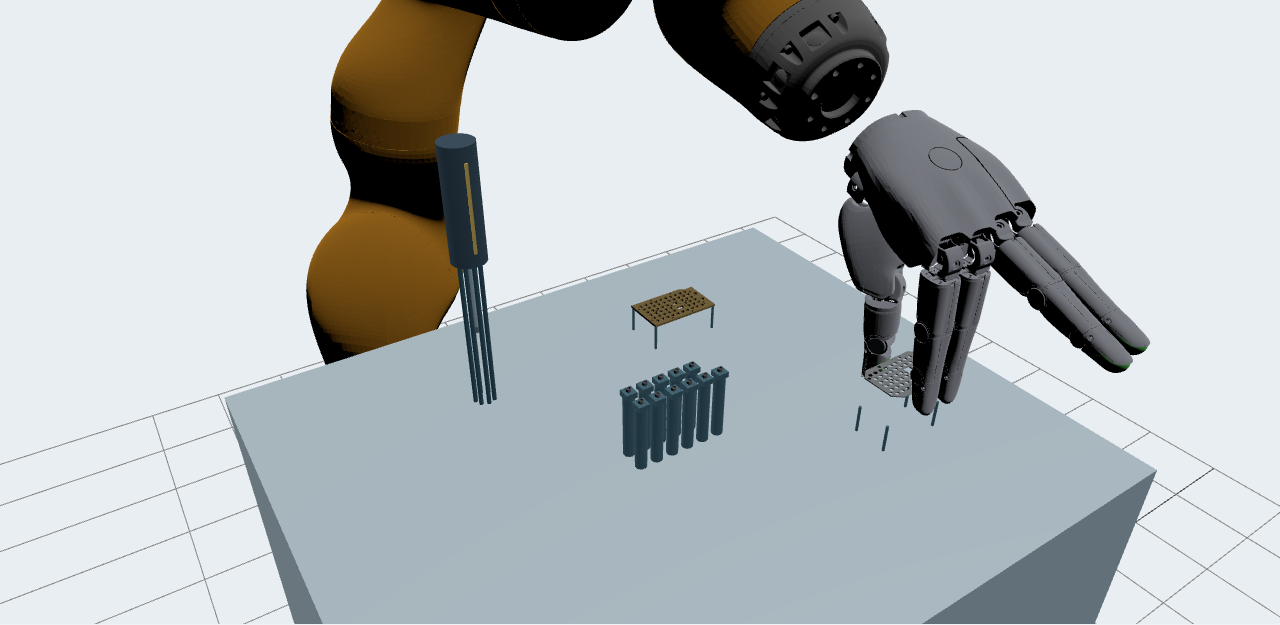
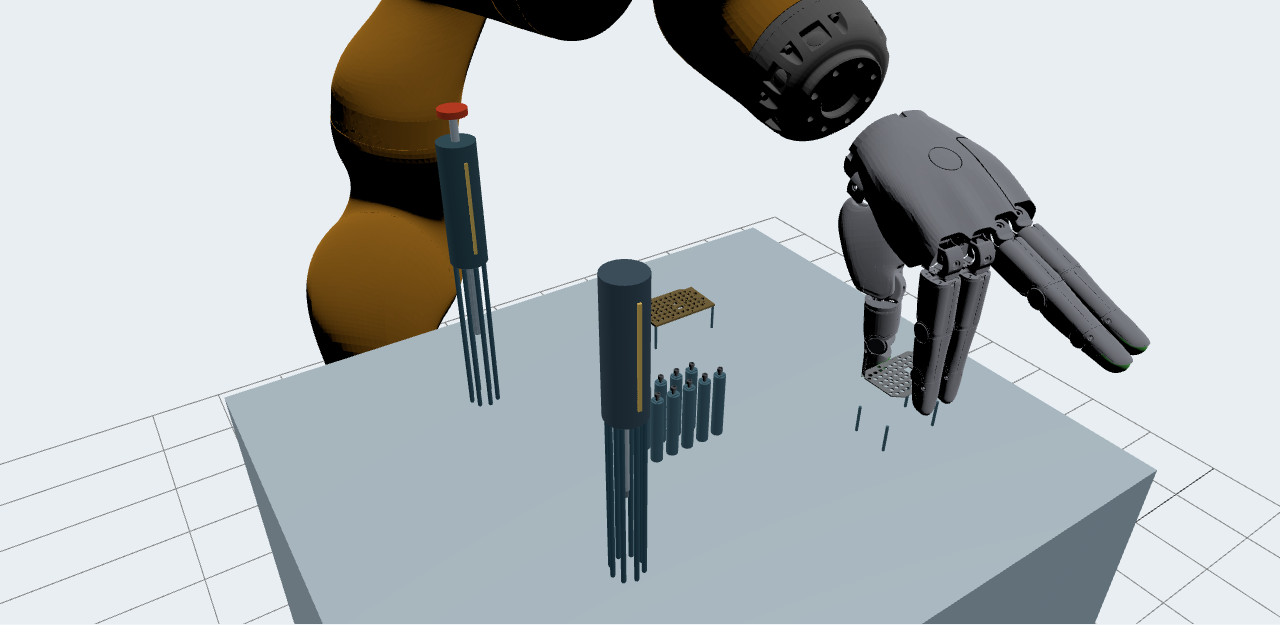
Keep the assembly replay layout consistent between recorded stages

Changed region(s): [[0.4688, 0.3952, 0.5625, 0.9424], [0.3438, 0.4256, 0.4062, 0.6384], [0.3438, 0.152, 0.375, 0.2432]]

diff --git a/demo/assembly/viewer.js b/demo/assembly/viewer.js
@@ -24,6 +24,8 @@ const loader=new GLTFLoader();
 const load=url=>new Promise((resolve,reject)=>loader.load(url,g=>resolve(g.scene),undefined,reject));
 let manifest,chapters,robot,parts,cover,base,current,activeChapter=-1,bindings=[];
 let t=0,last=0,playing=false,follow=null,viewScale=1;
+let inTransition=false,transitionCamera=null,robotOpacity=1;
+const robotMaterials=[];
 const grabberObjects=[handle,button,carriage,...claws];
 const nextPosition=new T.Vector3(),nextQuaternion=new T.Quaternion();
 function pose(obj,p,next=p,blend=0){
@@ -42,68 +44,124 @@ new ResizeObserver(()=>{
  camera.position.sub(controls.target).multiplyScalar(scale/viewScale).add(controls.target);viewScale=scale;
  camera.updateProjectionMatrix();controls.update();render();
 }).observe(view);
-controls.addEventListener('change',render);controls.addEventListener('start',()=>follow=null);
+controls.addEventListener('change',render);controls.addEventListener('start',()=>{follow=null;transitionCamera=null});
 function look(target,offset){controls.target.copy(target);camera.position.copy(target).add(new T.Vector3(...offset));fitPreset()}
 function whole(){follow=null;look(new T.Vector3(0,.2,.65),[1.2,-1.7,.7])}
 function assembly(){follow=null;look(new T.Vector3(.015,.055,.59),[-.285,-.435,.33])}
-function close(){follow=null;look((activeChapter===0||current?.tool==='driver'?driverHandle:handle).position,[.20,-.25,.12])}
+function close(){follow=null;look((current?.tool==='driver'?driverHandle:handle).position,[.20,-.25,.12])}
 function selectedScrew(){return Number($('screw').value)}
 function socket(){follow=null;const v=new T.Vector3(...chapters[1].layout.seats[selectedScrew()]);v.z+=.0022;look(v,[.012,-.025,.018])}
 function fixture(obj,x,y,z){obj.position.set(x,y,z);fixtures.add(obj)}
-function clearFixtures(){
- fixtures.traverse(o=>{if(o.isMesh){o.geometry.dispose();o.material.dispose()}});fixtures.clear();
+function bodyObject(label){
+ const n=label.split('/').at(-1);
+ if(label.includes('/Robot/'))return robot.getObjectByName(n);
+ if(label.includes('/Driver/'))return n==='Handle'?driverHandle:n==='Bit'?bit:null;
+ if(n==='Cover')return cover;
+ if(n==='Screw')return screws[Number(label.match(/Screw(\d+)/)[1])];
+ return n==='Handle'?handle:n==='Button'?button:n==='Carriage'?carriage:n.startsWith('Claw')?claws[Number(n.slice(4))]:null;
 }
-function setChapter(index){
- activeChapter=index;const d=chapters[index],layout=d.layout,b=layout.base||layout.assembly_base;
- for(const obj of grabberObjects)obj.visible=index===1;
- clearFixtures();
- // Restore original CAD transforms before applying this chapter's placement.
+function buildSharedSet(){
+ // Presentation context only: use the mechanical assembly's parked tools,
+ // rack and stands in both clips. The unused legacy driver is never drawn.
+ // Keep the empty cover supports after pickup. No recorded pose is rewritten.
+ const layout=chapters[1].layout,b=layout.assembly_base;
  base.position.copy(parts.getObjectByName('base').position).add(new T.Vector3(...b));
  base.quaternion.copy(parts.getObjectByName('base').quaternion);
- cover.position.copy(parts.getObjectByName('cover').position).add(new T.Vector3(...b));
- cover.quaternion.copy(parts.getObjectByName('cover').quaternion);
  for(const xy of [[-.0264225,-.015437],[-.0264225,.015437],[.0264225,-.015437],[.0264225,.013037]])fixture(cyl(.001,.02,0x496b78),b[0]+xy[0],b[1]+xy[1],b[2]-.01);
- if(index===0){
-  const c=layout.cover_source;
-  for(const xy of [[-.0231871744,-.012037],[-.0231871744,.012037],[.0231871744,-.012037],[.0231871744,.012037]])fixture(cyl(.001,.02,0x496b78),c[0]+xy[0],c[1]+xy[1],c[2]-.0101);
- }
- for(const p of [layout.tool_position,layout.driver_position].filter(Boolean)){
+ const c=chapters[0].layout.cover_source;
+ for(const xy of [[-.0231871744,-.012037],[-.0231871744,.012037],[.0231871744,-.012037],[.0231871744,.012037]])fixture(cyl(.001,.02,0x496b78),c[0]+xy[0],c[1]+xy[1],c[2]-.0101);
+ for(const p of [layout.tool_position,layout.driver_position]){
   const z=p[2]-.04;
   for(let i=0;i<8;i++){
-   const a=i*Math.PI/4,r=layout.tool_support_radius_m??.007;
+   const a=i*Math.PI/4,r=layout.tool_support_radius_m;
    fixture((layout.tool_support_rounded?roundedPost:cyl)(.0015,z-.53,0x315563),p[0]+r*Math.cos(a),p[1]+r*Math.sin(a),(.53+z)/2);
   }
  }
  for(const c of layout.sources){
-  if(index===0){
-   fixture(cyl(.004,c[2]-.004-.53,0x496b78),c[0],c[1],(.53+c[2]-.004)/2);
-   for(const [xy,wh] of [[[-.002625,0],[.00275,.008]],[[.002625,0],[.00275,.008]],[[0,-.002625],[.0025,.00275]],[[0,.002625],[.0025,.00275]]])fixture(new T.Mesh(new T.BoxGeometry(...wh,.004),mat(0x496b78)),c[0]+xy[0],c[1]+xy[1],c[2]-.002);
-  }else{
-   const bottom=c[2]-.003175,top=c[2]-.0025,inner=.0013,outer=.0025;
-   fixture(cyl(.004,bottom-.53,0x496b78),c[0],c[1],(.53+bottom)/2);
-   for(const [xy,wh] of [[[ -(inner+outer)/2,0],[outer-inner,2*outer]],[[ (inner+outer)/2,0],[outer-inner,2*outer]],[[0,-(inner+outer)/2],[2*inner,outer-inner]],[[0,(inner+outer)/2],[2*inner,outer-inner]]])fixture(new T.Mesh(new T.BoxGeometry(...wh,top-bottom),mat(0x496b78)),c[0]+xy[0],c[1]+xy[1],(bottom+top)/2);
-  }
+  const bottom=c[2]-.003175,top=c[2]-.0025,inner=.0013,outer=.0025;
+  fixture(cyl(.004,bottom-.53,0x496b78),c[0],c[1],(.53+bottom)/2);
+  for(const [xy,wh] of [[[ -(inner+outer)/2,0],[outer-inner,2*outer]],[[ (inner+outer)/2,0],[outer-inner,2*outer]],[[0,-(inner+outer)/2],[2*inner,outer-inner]],[[0,(inner+outer)/2],[2*inner,outer-inner]]])fixture(new T.Mesh(new T.BoxGeometry(...wh,top-bottom),mat(0x496b78)),c[0]+xy[0],c[1]+xy[1],(bottom+top)/2);
+ }
+ const materials=new Map();
+ robot.traverse(obj=>{
+  if(!obj.isMesh)return;
+  const clone=original=>{
+   if(!materials.has(original)){
+    const material=original.clone();materials.set(original,material);
+    robotMaterials.push({material,opacity:original.opacity,transparent:original.transparent,depthWrite:original.depthWrite});
+   }
+   return materials.get(original);
+  };
+  obj.material=Array.isArray(obj.material)?obj.material.map(clone):clone(obj.material);
+ });
+}
+function parkedContext(){
+ const d=chapters[1],f=d.frames[0];
+ d.body_labels.forEach((label,i)=>{
+  if(label.includes('/Robot/'))return;
+  const obj=bodyObject(label);if(obj)pose(obj,f.poses[i]);
+ });
+}
+function setChapter(index){
+ activeChapter=index;const d=chapters[index];follow=null;
+ if(index===0)parkedContext();
+ else{
+  cover.position.copy(parts.getObjectByName('cover').position).add(new T.Vector3(...chapters[1].layout.assembly_base));
+  cover.quaternion.copy(parts.getObjectByName('cover').quaternion);
  }
  bindings=d.body_labels.map(label=>{
-  const n=label.split('/').at(-1);
-  if(label.includes('/Robot/'))return robot.getObjectByName(n);
-  if(label.includes('/Driver/'))return n==='Handle'?driverHandle:n==='Bit'?bit:null;
-  if(n==='Cover')return cover;
-  if(n==='Screw')return screws[Number(label.match(/Screw(\d+)/)[1])];
-  return n==='Handle'?handle:n==='Button'?button:n==='Carriage'?carriage:n.startsWith('Claw')?claws[Number(n.slice(4))]:null;
+  // Only the hand/arm and cover are active in the first recording. Other
+  // visible objects are the shared presentation set, not legacy physics data.
+  if(index===0&&!label.includes('/Robot/')&&!label.endsWith('/Cover'))return null;
+  return bodyObject(label);
  });
- // All dynamic bodies must have a renderable counterpart. Fixed fixtures are
- // rendered from this chapter's layout, not from a different simulation.
  d.body_labels.forEach((label,i)=>{
-  if(/\/Robot\/|\/Driver\/|\/Grabber\/|\/Cover$|\/Screw\d+\/Screw$/.test(label)&&!bindings[i])throw Error('Missing scene object: '+label);
+  const required=index===0?/\/Robot\/|\/Cover$/:/\/Robot\/|\/Driver\/|\/Grabber\/|\/Cover$|\/Screw\d+\/Screw$/;
+  if(required.test(label)&&!bindings[i])throw Error('Missing scene object: '+label);
  });
  $('chapter').textContent=index===0?'Stage 1 · Cover pickup, alignment and release':'Stage 2 · Mechanical screw placement → Tool change → Powered rotation';
+}
+function robotFade(amount){
+ robotOpacity=amount;robot.visible=amount>0.001;
+ for(const entry of robotMaterials){
+  const m=entry.material,transparent=amount<.999||entry.transparent;
+  if(m.transparent!==transparent){m.transparent=transparent;m.needsUpdate=true}
+  m.opacity=entry.opacity*amount;m.depthWrite=entry.depthWrite&&amount>=.999;
+ }
+}
+const smooth=x=>{x=Math.max(0,Math.min(1,x));return x*x*(3-2*x)};
+function showTransition(u){
+ // Dissolve the empty robot between two real poses; do not interpolate links
+ // or suggest that an unvalidated arm trajectory was simulated.
+ if(u>=.5){
+  const d=chapters[1],f=d.frames[0];
+  d.body_labels.forEach((label,i)=>{if(label.includes('/Robot/'))pose(bodyObject(label),f.poses[i])});
+ }
+ robotFade(u<.5?1-smooth(2*u):smooth(2*u-1));
+ if(transitionCamera){
+  const w=smooth(u);
+  camera.position.copy(transitionCamera.position).lerp(transitionCamera.endPosition,w);
+  controls.target.copy(transitionCamera.target).lerp(transitionCamera.endTarget,w);controls.update();
+ }
 }
 function seek(time){
  if(!chapters)return;t=Math.max(0,Math.min(time,manifest.duration_seconds));
  const transition=t>manifest.chapters[0].duration_seconds&&t<manifest.chapters[1].offset_seconds;
  const index=t>=manifest.chapters[1].offset_seconds?1:0;
- if(index!==activeChapter){follow=null;setChapter(index);assembly()}
+ if(transition&&!inTransition){
+  if(follow){
+   const target=new T.Vector3(.015,.055,.59);
+   transitionCamera={position:camera.position.clone(),target:controls.target.clone(),endTarget:target,
+    endPosition:target.clone().add(new T.Vector3(-.285,-.435,.33).multiplyScalar(viewScale))};
+  }
+  follow=null;
+ }
+ if(!transition&&inTransition){
+  if(transitionCamera&&index===1){camera.position.copy(transitionCamera.endPosition);controls.target.copy(transitionCamera.endTarget);controls.update()}
+  transitionCamera=null;
+ }
+ inTransition=transition;
+ if(index!==activeChapter)setChapter(index);
  const d=chapters[index],local=Math.min(t-manifest.chapters[index].offset_seconds,d.frames.at(-1).time);
  let lo=0,hi=d.frames.length-1;
  while(lo<hi){const mid=Math.ceil((lo+hi)/2);if(d.frames[mid].time<=local)lo=mid;else hi=mid-1}
@@ -111,6 +169,8 @@ function seek(time){
  const blend=next.time>f.time?(local-f.time)/(next.time-f.time):0;current=f;
  bindings.forEach((obj,i)=>{if(obj)pose(obj,f.poses[i],next.poses[i],blend)});
  $('transition').hidden=!transition;
+ $('metrics').hidden=transition;
+ if(transition)showTransition((t-manifest.chapters[0].duration_seconds)/manifest.transition_seconds);else robotFade(1);
  if(follow==='cover')look(cover.position.clone().add(new T.Vector3(0,0,.015)),[.12,-.18,.09]);
  if(follow==='screw')look(screws[f.active_screw].position.clone().add(new T.Vector3(0,0,.003)),[.025,-.045,.025]);
  const placed=f.placed||[],driven=f.driven||[];
@@ -149,12 +209,13 @@ function tick(now){
 document.querySelectorAll('button,select,input').forEach(n=>n.disabled=true);
 try{
  if(!('DecompressionStream' in window))throw Error('Please use a current Chrome, Edge, Firefox or Safari browser.');
- const response=await fetch('data/recording.json?v=claw-cover-2');if(!response.ok)throw Error('Recording index unavailable');manifest=await response.json();
+ const response=await fetch('data/recording.json?v=shared-scene-3');if(!response.ok)throw Error('Recording index unavailable');manifest=await response.json();
  if(manifest.format!=='assembly-chapters-v2')throw Error('Please refresh this page to load the updated demo.');
  [robot,parts,chapters]=await Promise.all([load('../replay/assets/robot.glb'),load('assets/assembly.glb'),Promise.all(manifest.chapters.map(recording))]);
  scene.add(robot);base=parts.getObjectByName('base').clone();cover=parts.getObjectByName('cover').clone();scene.add(base,cover);
  const screw=parts.getObjectByName('screw_01');
  for(let i=0;i<11;i++){const o=screw.clone();screws.push(o);scene.add(o)}
+ buildSharedSet();
  for(const id of manifest.requested_order){
   $('screw').add(new Option('Screw '+(id+1),id));
   const b=document.createElement('button');b.textContent=id+1;b.dataset.id=id;b.onclick=()=>{$('screw').value=id;jump(1,'close_claws',true)};$('progress').append(b);
@@ -169,6 +230,7 @@ try{
  $('reset').onclick=()=>{setPlaying(false);seek(0);assembly()};
  $('copyLink').onclick=async()=>{try{await navigator.clipboard.writeText(location.href);$('shareStatus').textContent='Link copied'}catch{$('shareStatus').textContent='Copy the page address from your browser to share this demo.'}};
  seek(0);assembly();document.querySelectorAll('button,select,input').forEach(n=>n.disabled=false);
- window.assemblyDemo={scene,camera,renderer,manifest,chapters,frame:()=>current,chapter:()=>activeChapter,time:()=>t,seek,setPlaying,cover,base,bindings:()=>bindings};
+ window.assemblyDemo={scene,camera,renderer,manifest,chapters,frame:()=>current,chapter:()=>activeChapter,time:()=>t,seek,setPlaying,cover,base,bindings:()=>bindings,robot,robotOpacity:()=>robotOpacity,target:()=>controls.target.clone(),
+  sharedProps:()=>[...grabberObjects,driverHandle,bit,...screws,base,...fixtures.children]};
  requestAnimationFrame(tick);
 }catch(e){$('error').textContent=e.message;console.error(e)}

diff --git a/demo/assembly/index.html b/demo/assembly/index.html
@@ -7,7 +7,7 @@
 <meta property="og:description" content="Watch cover placement and eleven screw installations in an interactive 3D replay. Runs in your browser.">
 <meta property="og:url" content="https://fuhaoji.github.io/embodied-ai-suf/demo/assembly/">
 <meta property="og:image" content="https://fuhaoji.github.io/embodied-ai-suf/demo/assembly/assets/preview.png">
-<link rel="icon" href="../favicon.svg" type="image/svg+xml"><link rel="stylesheet" href="style.css?v=claw-cover-2">
+<link rel="icon" href="../favicon.svg" type="image/svg+xml"><link rel="stylesheet" href="style.css?v=shared-scene-3">
 <script type="importmap">{"imports":{"three":"../replay/vendor/three.module.js"}}</script>
 </head><body>
 <a class="skip" href="#view">Skip to 3D replay</a>
@@ -18,8 +18,8 @@
 <div class="controls" aria-label="Screw stages"><select id="screw" aria-label="Screw"></select><button id="picking">Screw pickup</button><button id="carrying">Transfer</button><button id="releasing">Screw release</button><button id="driving">Rotation</button><button id="socket">Hole close-up</button><button id="finishing">Completed assembly</button><span id="progress" aria-label="Installed screws"></span></div>
 <div class="timeline"><input id="seek" type="range" min="0" max="1" step=".001" value="0" aria-label="Timeline"><span id="clock"></span></div><p id="chapter" class="chapter-note">Two recorded stages · Cover placement → Screw installation</p><div id="error" role="alert"></div>
 </header>
-<main><div id="view" aria-label="Interactive recorded 3D assembly"><div id="metrics" role="status">Loading the recorded assembly…</div><div id="transition" hidden><div><span class="eyebrow">Next recorded stage</span><h2>Cover placed. Now install the screws.</h2><p>Switching to the grabber recording.<br>The cover starts seated and fixed in this stage.</p></div></div><span class="orbit-hint">Drag to orbit · Scroll to zoom</span></div></main>
-<footer><p><strong>Recorded simulation, played in your browser.</strong> This is a scripted full-state/IK demonstration. No live policy inference, simulation server, or dedicated GPU is needed to view it.</p><p>The four claws capture each screw beneath its head without magnetic attachment. The hand places and releases all eleven screws, parks the grabber, and picks up a powered screwdriver to rotate them. Ideal seated retention approximates thread engagement; detailed threads, bending, tightening torque, and preload are not modeled.</p><p>Two validated recordings are shown with a marked scene cut: a free-cover placement in Isaac Lab / Newton / MuJoCo-Warp, followed by screw installation in native MuJoCo using the audited Isaac Lab scene. The second recording begins with the cover seated and fixed; the handoff between the recordings was not simulated.</p><nav><a href="../">Tool-use gallery</a><a href="../notices.html">Attribution &amp; licenses</a><a href="https://github.com/fuhaoji/embodied-ai-suf">GitHub ↗</a></nav></footer>
+<main><div id="view" aria-label="Interactive recorded 3D assembly"><div id="metrics" role="status">Loading the recorded assembly…</div><div id="transition" hidden><strong>Cover placed → Screw installation</strong><span>Replay dissolve between recordings</span></div><span class="orbit-hint">Drag to orbit · Scroll to zoom</span></div></main>
+<footer><p><strong>Recorded simulation, played in your browser.</strong> This is a scripted full-state/IK demonstration. No live policy inference, simulation server, or dedicated GPU is needed to view it.</p><p>The four claws capture each screw beneath its head without magnetic attachment. The hand places and releases all eleven screws, parks the grabber, and picks up a powered screwdriver to rotate them. Ideal seated retention approximates thread engagement; detailed threads, bending, tightening torque, and preload are not modeled.</p><p>Two validated recordings use a shared visual layout and a short robot dissolve: a free-cover placement in Isaac Lab / Newton / MuJoCo-Warp, followed by screw installation in native MuJoCo using the audited Isaac Lab scene. Parked tools, screws and fixtures use the screw-stage layout throughout. The second recording begins with the cover seated and fixed; the visual transition is an edit, and the handoff between recordings was not simulated.</p><nav><a href="../">Tool-use gallery</a><a href="../notices.html">Attribution &amp; licenses</a><a href="https://github.com/fuhaoji/embodied-ai-suf">GitHub ↗</a></nav></footer>
 <noscript><p>Enable JavaScript to view the interactive recording.</p></noscript>
-<script type="module" src="viewer.js?v=claw-cover-2"></script>
+<script type="module" src="viewer.js?v=shared-scene-3"></script>
 </body></html>

diff --git a/demo/notices.html b/demo/notices.html
@@ -1,1 +1,1 @@
-<!doctype html><html lang="en"><head><meta charset="utf-8"><meta name="viewport" content="width=device-width,initial-scale=1"><title>Attribution · Embodied AI</title><link rel="stylesheet" href="style.css"><link rel="icon" href="favicon.svg"></head><body><main><section class="section"><p><a href="./">← Back to trajectories</a></p><p class="eyebrow">Research & software credits</p><h1>Attribution</h1><p>This simulation study uses the task definitions and assets in <a href="https://simtoolreal.github.io/">SimToolReal</a> and <a href="https://github.com/tylerlum/simtoolreal">its released repository</a>. The tool-use tasks are from DexToolBench. The tool-use trajectories were recorded from our trained policy.</p><p>The tool-use videos visualize recorded Isaac Gym / PhysX states. The sample-holder assembly page replays two scripted full-state/IK recordings: cover placement in Isaac Lab 3.0 / Newton / MuJoCo-Warp, and mechanical screw placement with powered driving in native MuJoCo using the audited Isaac Lab scene. A marked scene cut separates them. They use our sample-holder CAD and simplified grabber and screwdriver geometry. The site does not redistribute the simulator or require it for playback.</p><ul><li>SimToolReal code and repository assets: <a href="licenses/SimToolReal-MIT.txt">MIT license, © 2026 Tyler Lum</a>, with asset-specific notices retained below.</li><li>KUKA iiwa assets: <a href="licenses/KUKA-iiwa-BSD.txt">BSD 2-Clause license and copyright notices</a>.</li><li>Three.js r160 and its loaders/controls: <a href="licenses/Threejs-MIT.txt">MIT license, Three.js Authors</a>.</li><li>Embodied AI for Scientific User Facilities repository: <a href="licenses/Apache-2.0.txt">Apache License 2.0</a>. Third-party material retains its respective licenses.</li></ul><p>Robot and tool meshes are visualizations of the original assets, transformed for recorded-pose playback. Simulation completion is a pose-tracking measure; the site does not claim material interaction outcomes or real-world task success.</p><p><a href="https://github.com/fuhaoji/embodied-ai-suf">Project repository ↗</a></p></section></main></body></html>
+<!doctype html><html lang="en"><head><meta charset="utf-8"><meta name="viewport" content="width=device-width,initial-scale=1"><title>Attribution · Embodied AI</title><link rel="stylesheet" href="style.css"><link rel="icon" href="favicon.svg"></head><body><main><section class="section"><p><a href="./">← Back to trajectories</a></p><p class="eyebrow">Research & software credits</p><h1>Attribution</h1><p>This simulation study uses the task definitions and assets in <a href="https://simtoolreal.github.io/">SimToolReal</a> and <a href="https://github.com/tylerlum/simtoolreal">its released repository</a>. The tool-use tasks are from DexToolBench. The tool-use trajectories were recorded from our trained policy.</p><p>The tool-use videos visualize recorded Isaac Gym / PhysX states. The sample-holder assembly page replays two scripted full-state/IK recordings: cover placement in Isaac Lab 3.0 / Newton / MuJoCo-Warp, and mechanical screw placement with powered driving in native MuJoCo using the audited Isaac Lab scene. They share the screw-stage visual layout, with a robot dissolve between recordings; the transition is a presentation edit, not simulated motion. They use our sample-holder CAD and simplified grabber and screwdriver geometry. The site does not redistribute the simulator or require it for playback.</p><ul><li>SimToolReal code and repository assets: <a href="licenses/SimToolReal-MIT.txt">MIT license, © 2026 Tyler Lum</a>, with asset-specific notices retained below.</li><li>KUKA iiwa assets: <a href="licenses/KUKA-iiwa-BSD.txt">BSD 2-Clause license and copyright notices</a>.</li><li>Three.js r160 and its loaders/controls: <a href="licenses/Threejs-MIT.txt">MIT license, Three.js Authors</a>.</li><li>Embodied AI for Scientific User Facilities repository: <a href="licenses/Apache-2.0.txt">Apache License 2.0</a>. Third-party material retains its respective licenses.</li></ul><p>Robot and tool meshes are visualizations of the original assets, transformed for recorded-pose playback. Simulation completion is a pose-tracking measure; the site does not claim material interaction outcomes or real-world task success.</p><p><a href="https://github.com/fuhaoji/embodied-ai-suf">Project repository ↗</a></p></section></main></body></html>

diff --git a/demo/assembly/style.css b/demo/assembly/style.css
@@ -1,3 +1,3 @@
 :root{color-scheme:light;font-family:system-ui,-apple-system,BlinkMacSystemFont,"Segoe UI",sans-serif;color:#142b3c;background:#eef3f5}*{box-sizing:border-box}body{margin:0}header{padding:20px 26px 14px;background:#fff;border-bottom:1px solid #cfdbdf}.heading{display:flex;justify-content:space-between;gap:18px;align-items:center;margin-bottom:14px}.back{color:#216b68;font-size:14px;text-decoration:none}.eyebrow{text-transform:uppercase;letter-spacing:.12em;color:#52716e;font-size:11px;font-weight:700;margin:14px 0 7px}h1{font-size:clamp(23px,3vw,32px);line-height:1.2;margin:0}.intro{margin:7px 0;color:#5c6e77}.share{display:flex;flex-direction:column;align-items:flex-end;max-width:240px}#shareStatus{font-size:12px;color:#52716e;margin-top:4px}.controls{display:flex;align-items:center;flex-wrap:wrap;gap:5px;margin:7px 0}button,select{font:inherit;font-size:13px;padding:8px 11px;border:1px solid #bdced0;border-radius:7px;background:white;color:inherit;cursor:pointer}button:hover{background:#edf5f2}button:disabled,select:disabled{opacity:.5;cursor:wait}button.primary{background:#17625e;color:#fff;border-color:#17625e}button:focus-visible,select:focus-visible,input:focus-visible,a:focus-visible{outline:3px solid #c98620;outline-offset:3px}.label{font-size:12px;color:#64797f;margin-right:5px}#view{position:relative;height:65vh;min-height:420px;overflow:hidden}canvas{display:block;touch-action:none}#metrics{position:absolute;top:16px;left:16px;background:#ffffffdf;border-radius:9px;padding:12px 15px;pointer-events:none;line-height:1.6;font-size:14px;max-width:calc(100% - 32px)}.orbit-hint{position:absolute;bottom:16px;right:16px;padding:6px 10px;border-radius:6px;background:#ffffffcf;font-size:12px;pointer-events:none}footer{padding:16px 26px 24px;line-height:1.6;font-size:13px}footer p{max-width:1150px;margin:8px 0}footer nav{display:flex;gap:20px;flex-wrap:wrap;margin-top:16px}a{color:#17625e}.timeline{display:flex;align-items:center;gap:15px;margin-top:12px}#seek{flex:1;min-width:0;accent-color:#17625e}#clock{font-size:12px;font-variant-numeric:tabular-nums;color:#526971;white-space:nowrap}#error{color:#a22;margin-top:5px}#progress{display:inline-flex;flex-wrap:wrap;gap:3px}#progress button{min-width:29px;padding:5px}#progress .done{background:#c5eedb;border-color:#378365}#progress .active{background:#ffe1a5;border-color:#bc8019}.skip{position:absolute;left:15px;top:-50px;background:white;padding:8px;z-index:5}.skip:focus{top:5px}@media(max-width:600px){header{padding:16px 14px 10px}.heading{display:block}.share{align-items:flex-start;max-width:100%;margin-top:12px}.controls{gap:5px}button,select{font-size:12px;padding:8px}#view{height:58vh;min-height:360px}#metrics{font-size:12px;top:10px;left:10px;max-width:calc(100% - 20px);padding:9px}.timeline{flex-wrap:wrap;gap:3px}#seek{flex-basis:100%}footer{padding:14px}.orbit-hint{font-size:11px}}
 
-.chapter-note{font-size:12px;color:#526971;margin:8px 0 0}#transition{position:absolute;inset:0;background:#e8eef2f5;z-index:2;display:grid;place-items:center;text-align:center;padding:24px;pointer-events:none}#transition[hidden]{display:none}#transition h2{font-size:clamp(20px,3vw,30px);margin:12px 0}#transition p{font-size:15px;line-height:1.6;color:#526971}#progress .placed{background:#e5f1f0;border-color:#65938e}
+.chapter-note{font-size:12px;color:#526971;margin:8px 0 0}#transition{position:absolute;bottom:52px;left:50%;transform:translateX(-50%);width:max-content;max-width:calc(100% - 32px);background:#ffffffed;border:1px solid #cfdbdf;border-radius:9px;z-index:2;text-align:center;padding:12px 20px;pointer-events:none;line-height:1.5}#transition[hidden]{display:none}#transition strong,#transition span{display:block}#transition strong{font-size:15px}#transition span{font-size:12px;color:#526971}#progress .placed{background:#e5f1f0;border-color:#65938e}

diff --git a/demo/tools/export_assembly.py b/demo/tools/export_assembly.py
@@ -102,7 +102,8 @@ def main():
                     duration_seconds=b['offset_seconds'] + b['duration_seconds'],
                     continuous_simulation=False,
                     controller='Scripted full-state / IK',
-                    description='Two validated recordings with an explicit scene cut. No simulated handoff between chapters.',
+                    description='Two validated recordings in a shared visual layout, with an explicit robot dissolve. No simulated handoff between chapters.',
+                    presentation={'shared_layout': 'screw stage tools, parked screws and fixtures; cover supports retained', 'cover_stage_context': 'Unused legacy driver replaced by parked grabber and driver from screw-stage frame zero', 'transition': 'Robot opacity dissolve between recorded end/start poses; no synthesized movement', 'camera': 'Preserve orbit view; ease out only when leaving an automatic cover-follow view'},
                     limitations='Rigid bodies; no detailed threads, bending, tightening torque or preload.',
                     validation=dict(cover_placed=True, cover_peak_hand_force_N=cr['peak_forces']['cover_N'],
                                     screws_placed=11, screws_driven=11, no_magnetic_pickup=True))
